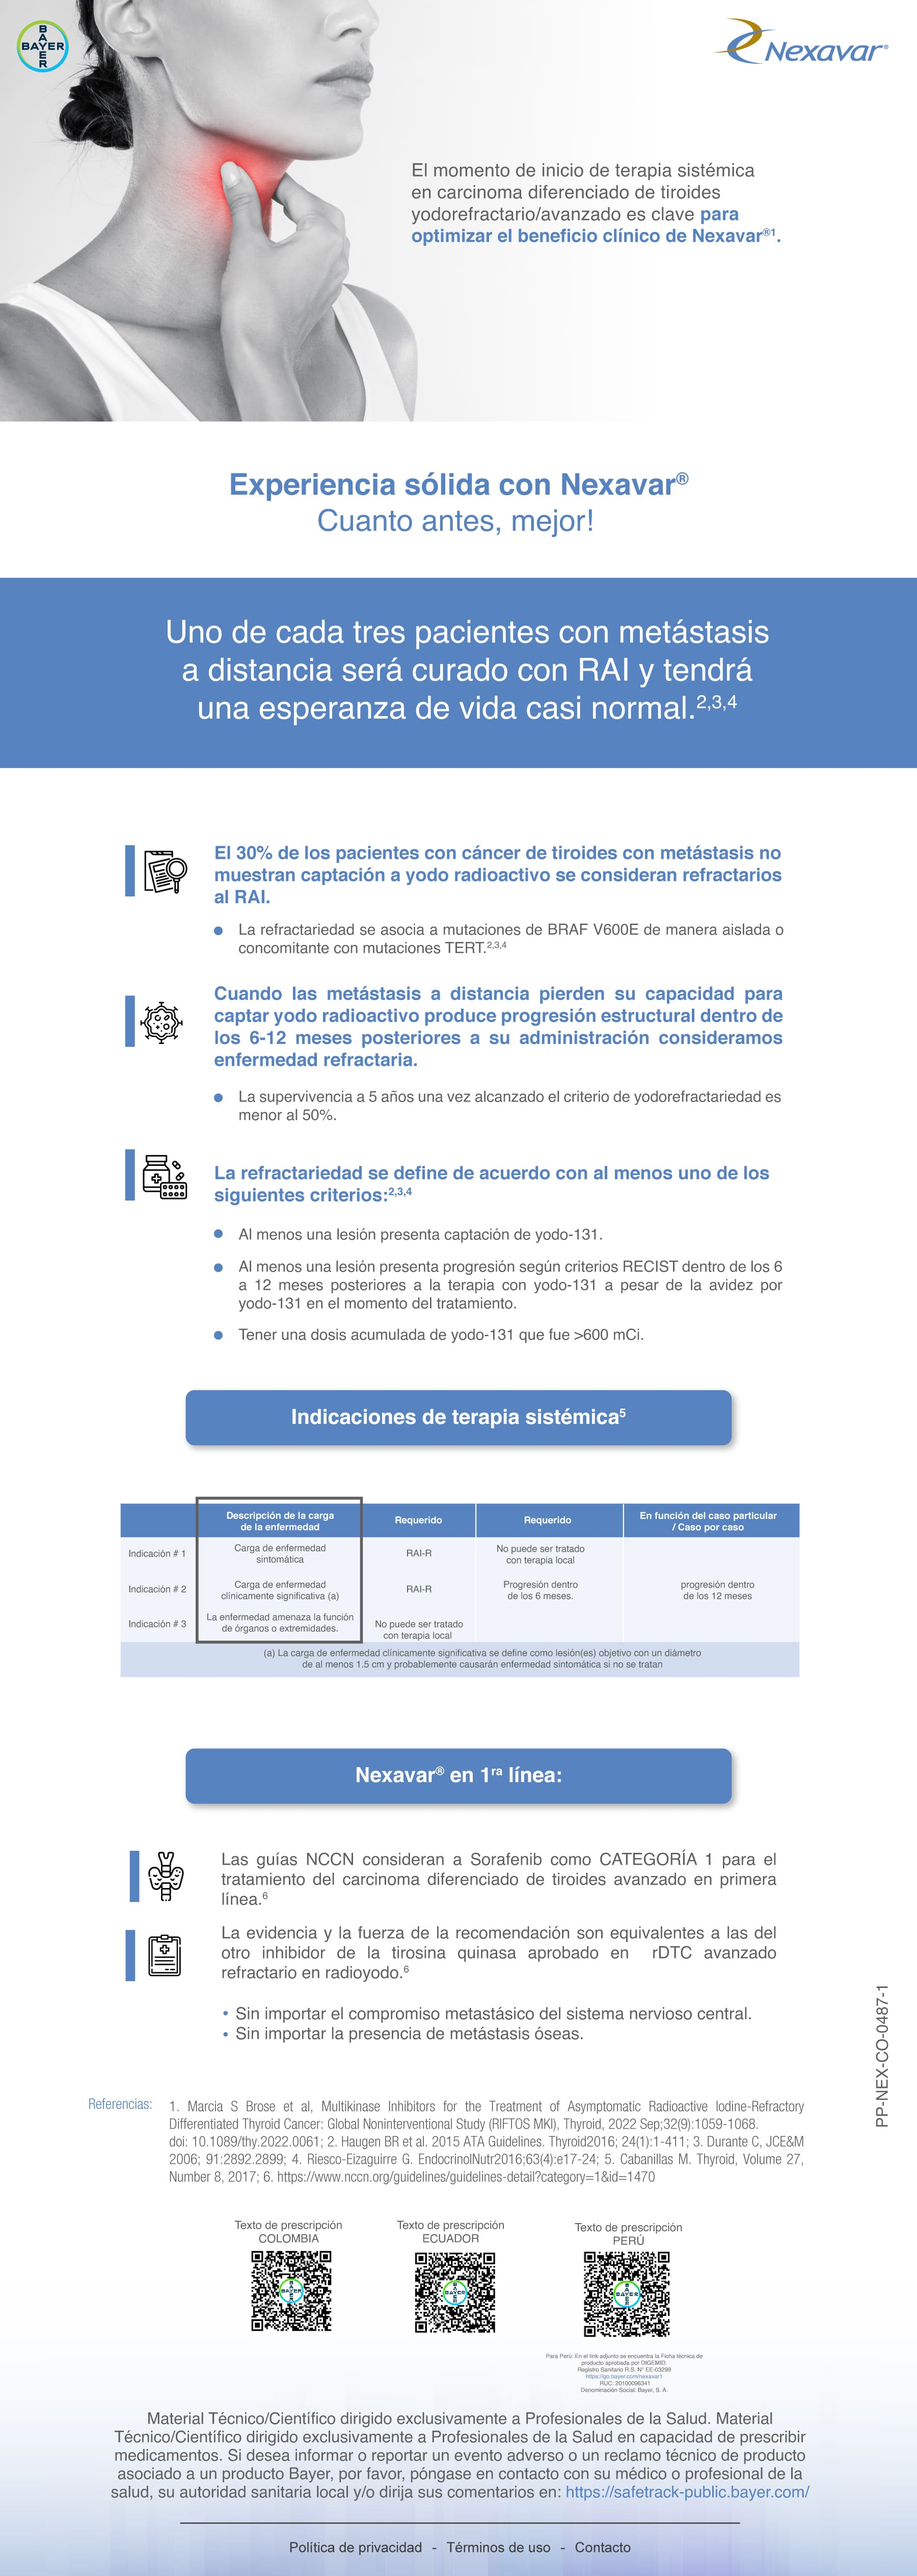
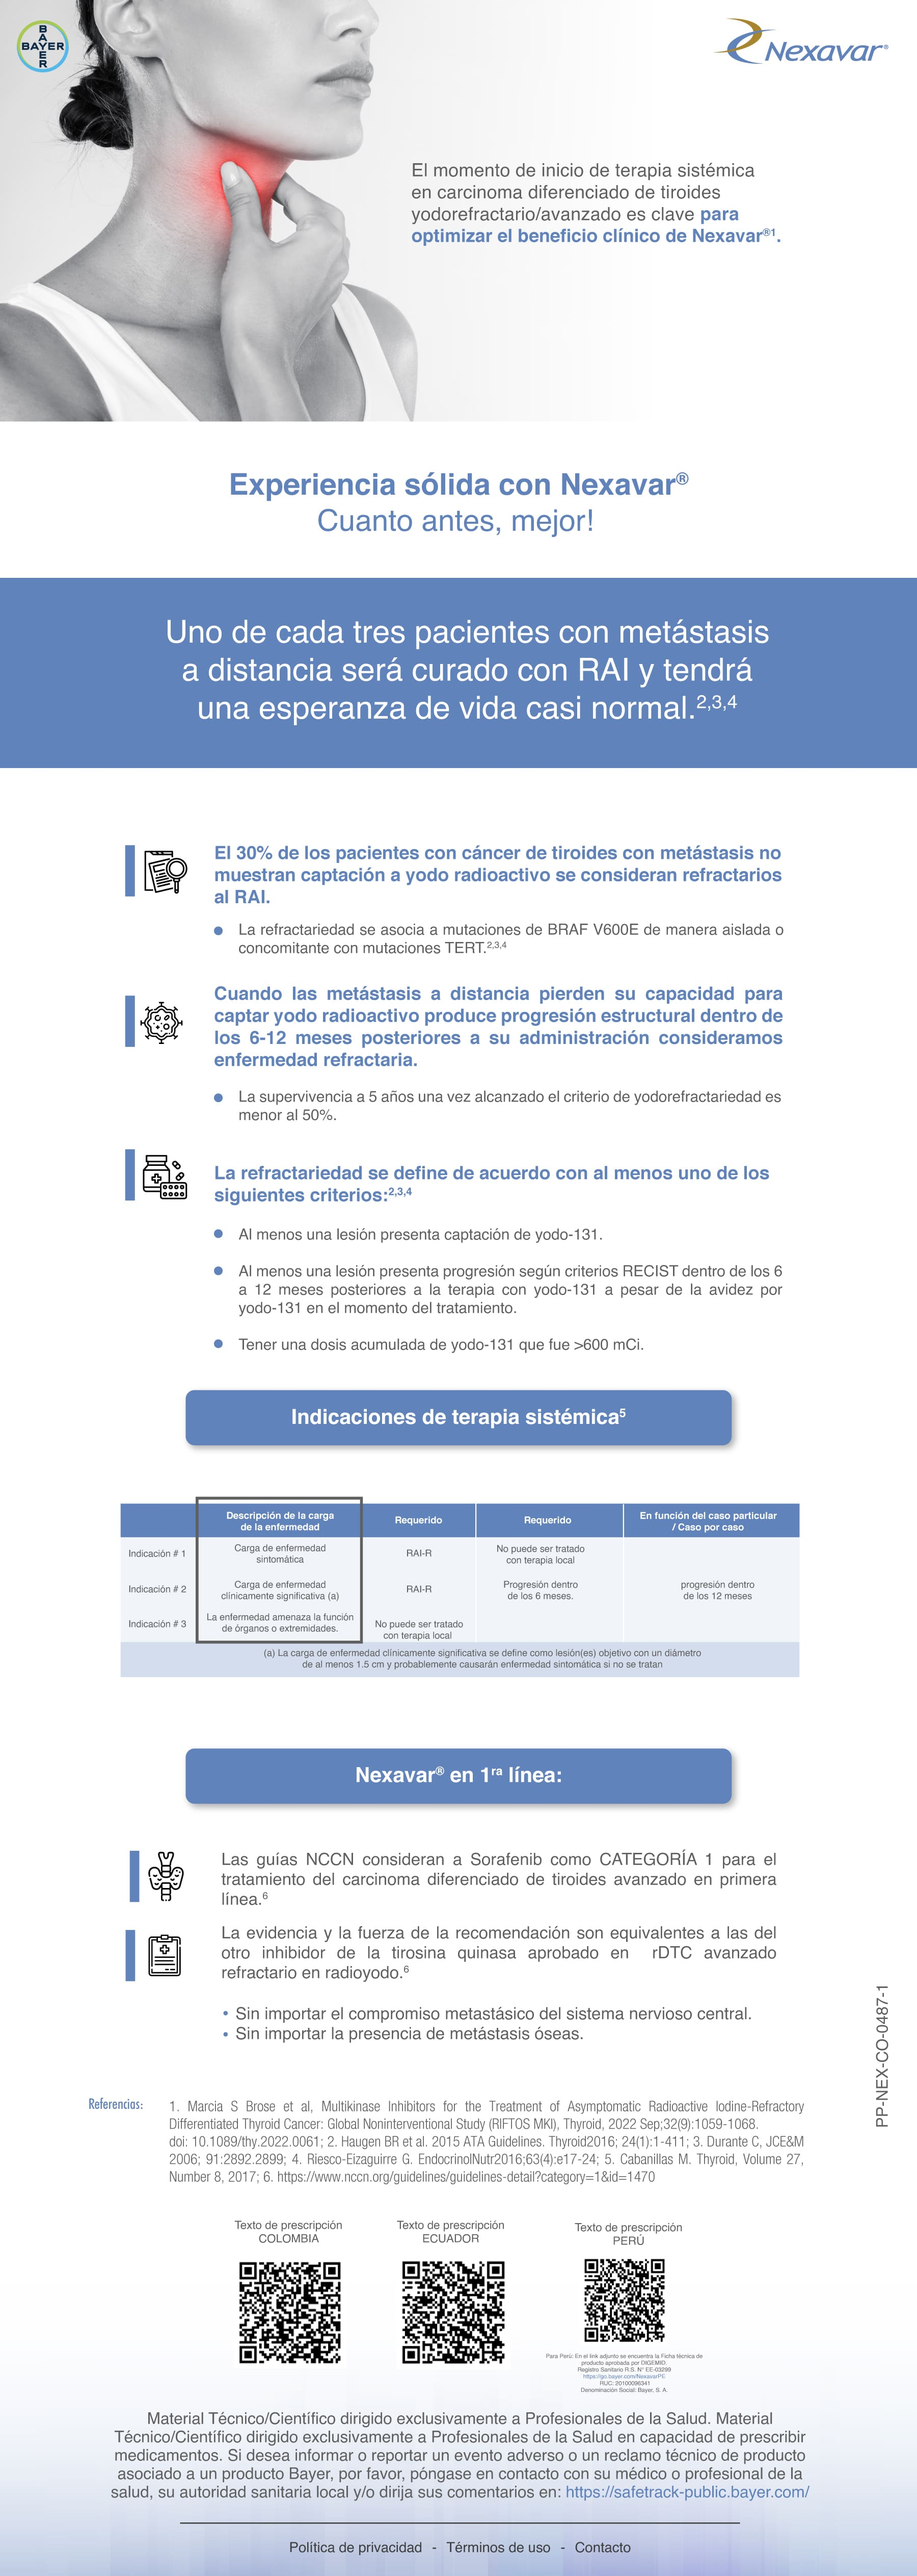
Update Tkis

diff --git a/index.html b/index.html
@@ -1,5 +1,6 @@
 <!DOCTYPE html>
-<html lang="es" xmlns="http://www.w3.org/1999/xhtml" xmlns:v="urn:schemas-microsoft-com:vml" xmlns:o="urn:schemas-microsoft-com:office:office">
+<html lang="es">
+
 <head>
    <meta charset="UTF-8">
    <meta name="viewport" content="width=device-width, initial-scale=1.0">
@@ -7,45 +8,44 @@
    <meta http-equiv="Content-type" content="text/html; charset=utf-8" />
    <meta name="format-detection" content="telephone=no" />
    <meta name="msapplication-tap-highlight" content="no" />
-   <meta name="viewport" content="user-scalable=no, initial-scale=1, maximum-scale=1, minimum-scale=1, width=device-width, height=device-height" />
+   <meta name="viewport"
+      content="user-scalable=no, initial-scale=1, maximum-scale=1, minimum-scale=1, width=device-width, height=device-height" />
    <meta name="apple-mobile-web-app-capable" content="yes">
    <meta name="apple-mobile-web-app-status-bar-style" content="black-translucent">
-   <meta name='author' href="https://github.com/juliansfreelance" email="jcalderon.code@gmail.com" content='Julio Calderón' />
-   <meta name="description" content="DEAR es un estudio de vida real que evaluó el uso de Darolutamida, Enzalutamida y Apalutamida en la práctica clínica habitual para cáncer de próstata no metastásico resistente a castración (CPRCnm)." />
+   <meta name='author' href="https://github.com/juliansfreelance" email="jcalderon.code@gmail.com"
+      content='Julio Calderón' />
+   <meta name="description" content="TKIs como base de la terapia sistémica: Cuanto antes, mejor!" />
 
    <link rel="preconnect" href="https://fonts.googleapis.com">
    <link rel="preconnect" href="https://fonts.gstatic.com" crossorigin>
-   <link href="https://fonts.googleapis.com/css2?family=Poppins:ital,wght@0,100;0,200;0,300;0,400;0,500;0,600;0,700;0,800;0,900;1,100;1,200;1,300;1,400;1,500;1,600;1,700;1,800;1,900&display=swap" rel="stylesheet">
+   <link href="https://fonts.googleapis.com/css2?family=Poppins&display=swap" rel="stylesheet">
 
-   <title>Approved Email Estudio DEAR</title>
-   <!--[if (mso) | (mso 16) | (gte mso 9) | (IE)]>
-      <style> a {  text-decoration: none;  } table{ border-collapse: collapse;}</style>
-   <![endif]-->
-
-   <!--[if (IE)]>
-      <style> table{ min-height: 0!important;} sup,sub{font-size: 50%!important;} sup{vertical-align:1.2em!important;}</style>
-   <![endif]-->
-
-   <!--[if gte mso 9]>
-      <xml>
-         <o:OfficeDocumentSettings>
-            <o:AllowPNG/>
-            <o:PixelsPerInch>96</o:PixelsPerInch>
-         </o:OfficeDocumentSettings>
-      </xml>
-   <![endif]-->
+   <title>TKIs como base de la terapia sistémica: Cuanto antes, mejor!</title>
    <style>
-      * {
+       *,
+      *::before,
+      *::after {
+         box-sizing: border-box;
          -webkit-tap-highlight-color: rgba(0, 0, 0, 0) !important;
          -webkit-font-smoothing: antialiased;
          user-select: none;
       }
-   
+
+      @media (prefers-reduced-motion: no-preference) {
+         :root {
+            scroll-behavior: smooth;
+         }
+      }
+
       html {
          background-color: #FFFFFF;
       }
-   
+
       body {
+         font-family: "Poppins", sans-serif;
+         font-weight: 400;
+         font-style: normal;
+         line-height: 1.5;
          background: #FAFAFA;
          margin: 0 auto;
          padding: 0 0 0 0;
@@ -60,8 +60,8 @@
    
       a {
          position: absolute;
-         /* background: #000; */
-         /* opacity: 0.5; */
+         background: #000;
+         opacity: 0.5;
       }
       .guidelines {
          top: 2125px;
@@ -70,28 +70,28 @@
          height: 20px;
       }
       .qr_01_colombia {
-         top: 2205px;
-         left: 243px;
-         width: 85px;
-         height: 85px;
+         top: 2215px;
+         left: 233px;
+         width: 105px;
+         height: 105px;
       }
       .qr_02_ecuador {
-         top: 2205px;
-         left: 405px;
-         width: 85px;
-         height: 85px;
+         top: 2215px;
+         left: 392px;
+         width: 105px;
+         height: 105px;
       }
       .qr_03_peru {
-         top: 2205px;
-         left: 570px;
+         top: 2211px;
+         left: 568px;
          width: 90px;
          height: 90px;
       }
       .link_bayer {
-         top: 2327px;
-         left: 574px;
-         width: 80px;
-         height: 7px;
+         top: 2326px;
+         left: 570px;
+         width: 85px;
+         height: 8px;
       }
 
       .link_safe {
@@ -119,23 +119,41 @@
          width: 62px;
          height: 20px;
       }
-   
 
+      .nombre, .saludo {
+         position: absolute;
+         /* background: #000;
+         opacity: 0.5; */
+      }
+      .nombre {
+         top: 134px;
+         left: 250px;
+         color: #363636;
+         font-size: 24px;
+      }
+      .saludo {
+         top: 5045px;
+         left: 35px;
+         color: #363636;
+         font-size: 18px;
+      }
    </style>
    </head>
-   
+
    <body>
-      <img src="images/email.jpg" alt="dear">
-      <a href="" target="_blank" class="guidelines"></a>
-      <a href="https://drive.google.com/drive/folders/1F8F_98MABe7cMY_zH-5-Zp2a3LNKDEt1?usp=sharing"target="_blank" class="qr_01_colombia"></a>
-      <a href="https://drive.google.com/drive/folders/1vTDtP-o8ffWNZTzejcPn8MhpxmbOMTDC?usp=sharing"target="_blank" class="qr_02_ecuador"></a>
-      <a href="https://drive.google.com/drive/folders/1CJZunMIix38HpXg54WTdVb2eJ6mtsRvY?usp=share_link"target="_blank" class="qr_03_peru"></a>
-      <a href="https://go.bayer.com/nubeqa" target="_blank" class="link_bayer"></a>
+      <img src="images/email.jpg" alt="TKIs">
+
+      <a href="https://www.nccn.org/guidelines/guidelines-detail?category=1&id=1470" target="_blank" class="guidelines"></a>
+      <a href="https://www.informacionparaprescribir.com/sites/g/files/vrxlpx51731/files/2024-05/NexavarCO.pdf" target="_blank" class="qr_01_colombia"></a>
+      <a href="https://www.informacionparaprescribir.com/sites/g/files/vrxlpx51731/files/2024-05/NexavarEcuador.pdf" target="_blank" class="qr_02_ecuador"></a>
+      <a href="https://www.informacionparaprescribir.com/sites/g/files/vrxlpx51731/files/2024-05/NexavaPeru.pdf" target="_blank" class="qr_03_peru"></a>
+
+      <a href="https://go.bayer.com/NexavarPE" target="_blank" class="link_bayer"></a>
       <a href="https://safetrack-public.bayer.com/" target="_blank" class="link_safe"></a>
-      <a href="https://www.bayer.com/sites/default/files/Politica_Privacidad_Website_06112020.pdf" target="_blank"
-         class="politica_privacidad"></a>
-      <a href="https://www.bayer.com/sites/default/files/General_Conditions_of%20Use_PACA.pdf" target="_blank"
-         class="terminos_uso"></a>
-      <a href="http://" target="_blank" class="contacto"></a>
+
+
+      <a href="https://www.bayer.com/sites/default/files/Politica_Privacidad_Website_06112020.pdf" target="_blank" class="politica_privacidad"></a>
+      <a href="https://www.bayer.com/sites/default/files/General_Conditions_of%20Use_PACA.pdf" target="_blank" class="terminos_uso"></a>
+      <a href="https://www.bayer.com/en/contact-us?autotranslate=es" target="_blank" class="contacto"></a>
    </body>
 </html>
